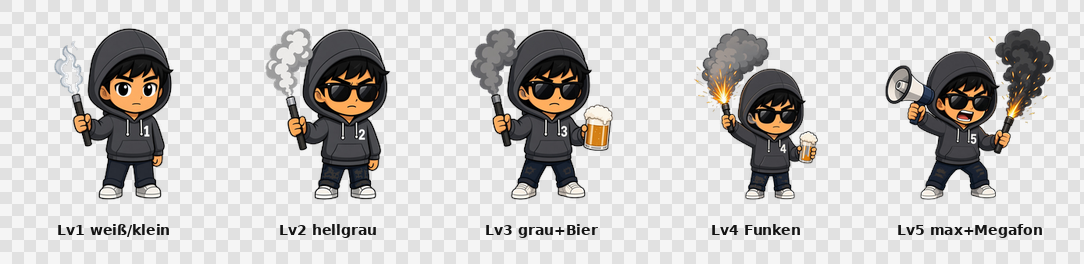
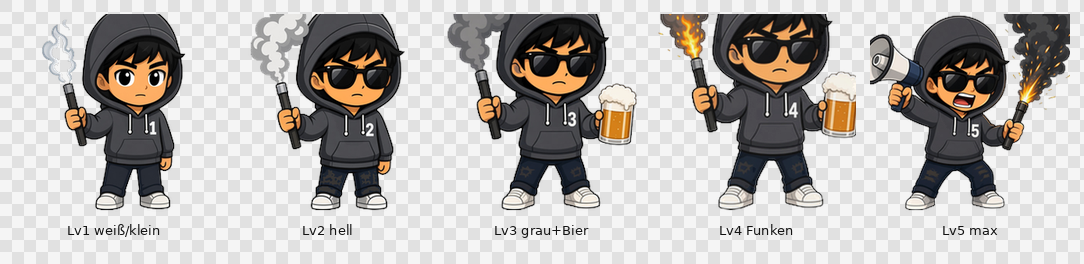
Lock Ultra canon grey/blue/red with equal figure scale
Fix Lv4 body scale to match other levels, colorize blue/red with
team-tinted pyro smoke ladder, and require these ultras for all
future game deployments.

diff --git a/unit-icons-agent/docs/gallery/unit-icons-cutouts.html b/unit-icons-agent/docs/gallery/unit-icons-cutouts.html
@@ -155,9 +155,9 @@
       </tr>
     </thead>
     <tbody>
-      <tr><th scope="row">Grau</th><td><div class="slot"><img src="../../assets/units/ultra-grey-1.png" alt="ultra-grey-1.png" width="128" height="128" loading="lazy" /><code>ultra-grey-1.png</code></div></td><td><div class="slot"><img src="../../assets/units/ultra-grey-2.png" alt="ultra-grey-2.png" width="128" height="128" loading="lazy" /><code>ultra-grey-2.png</code></div></td><td><div class="slot"><img src="../../assets/units/ultra-grey-3.png" alt="ultra-grey-3.png" width="128" height="128" loading="lazy" /><code>ultra-grey-3.png</code></div></td><td><div class="slot"><img src="../../assets/units/ultra-grey-4.png" alt="ultra-grey-4.png" width="128" height="128" loading="lazy" /><code>ultra-grey-4.png</code></div></td><td><div class="slot"><img src="../../assets/units/ultra-grey-5.png" alt="ultra-grey-5.png" width="128" height="128" loading="lazy" /><code>ultra-grey-5.png</code></div></td></tr>
-<tr><th scope="row">Blau</th><td><div class="slot"><img src="../../assets/units/ultra-blue-1.png" alt="ultra-blue-1.png" width="128" height="128" loading="lazy" /><code>ultra-blue-1.png</code></div></td><td><div class="slot"><img src="../../assets/units/ultra-blue-2.png" alt="ultra-blue-2.png" width="128" height="128" loading="lazy" /><code>ultra-blue-2.png</code></div></td><td><div class="slot"><img src="../../assets/units/ultra-blue-3.png" alt="ultra-blue-3.png" width="128" height="128" loading="lazy" /><code>ultra-blue-3.png</code></div></td><td><div class="slot"><img src="../../assets/units/ultra-blue-4.png" alt="ultra-blue-4.png" width="128" height="128" loading="lazy" /><code>ultra-blue-4.png</code></div></td><td><div class="slot"><img src="../../assets/units/ultra-blue-5.png" alt="ultra-blue-5.png" width="128" height="128" loading="lazy" /><code>ultra-blue-5.png</code></div></td></tr>
-<tr><th scope="row">Rot</th><td><div class="slot"><img src="../../assets/units/ultra-red-1.png" alt="ultra-red-1.png" width="128" height="128" loading="lazy" /><code>ultra-red-1.png</code></div></td><td><div class="slot"><img src="../../assets/units/ultra-red-2.png" alt="ultra-red-2.png" width="128" height="128" loading="lazy" /><code>ultra-red-2.png</code></div></td><td><div class="slot"><img src="../../assets/units/ultra-red-3.png" alt="ultra-red-3.png" width="128" height="128" loading="lazy" /><code>ultra-red-3.png</code></div></td><td><div class="slot"><img src="../../assets/units/ultra-red-4.png" alt="ultra-red-4.png" width="128" height="128" loading="lazy" /><code>ultra-red-4.png</code></div></td><td><div class="slot"><img src="../../assets/units/ultra-red-5.png" alt="ultra-red-5.png" width="128" height="128" loading="lazy" /><code>ultra-red-5.png</code></div></td></tr>
+      <tr><th scope="row">Grau</th><td><div class="slot"><img src="../../../game/public/icons/units/ultra-grey-1.png" alt="ultra-grey-1.png" width="128" height="128" loading="lazy" /><code>ultra-grey-1.png</code></div></td><td><div class="slot"><img src="../../../game/public/icons/units/ultra-grey-2.png" alt="ultra-grey-2.png" width="128" height="128" loading="lazy" /><code>ultra-grey-2.png</code></div></td><td><div class="slot"><img src="../../../game/public/icons/units/ultra-grey-3.png" alt="ultra-grey-3.png" width="128" height="128" loading="lazy" /><code>ultra-grey-3.png</code></div></td><td><div class="slot"><img src="../../../game/public/icons/units/ultra-grey-4.png" alt="ultra-grey-4.png" width="128" height="128" loading="lazy" /><code>ultra-grey-4.png</code></div></td><td><div class="slot"><img src="../../../game/public/icons/units/ultra-grey-5.png" alt="ultra-grey-5.png" width="128" height="128" loading="lazy" /><code>ultra-grey-5.png</code></div></td></tr>
+<tr><th scope="row">Blau</th><td><div class="slot"><img src="../../../game/public/icons/units/ultra-blue-1.png" alt="ultra-blue-1.png" width="128" height="128" loading="lazy" /><code>ultra-blue-1.png</code></div></td><td><div class="slot"><img src="../../../game/public/icons/units/ultra-blue-2.png" alt="ultra-blue-2.png" width="128" height="128" loading="lazy" /><code>ultra-blue-2.png</code></div></td><td><div class="slot"><img src="../../../game/public/icons/units/ultra-blue-3.png" alt="ultra-blue-3.png" width="128" height="128" loading="lazy" /><code>ultra-blue-3.png</code></div></td><td><div class="slot"><img src="../../../game/public/icons/units/ultra-blue-4.png" alt="ultra-blue-4.png" width="128" height="128" loading="lazy" /><code>ultra-blue-4.png</code></div></td><td><div class="slot"><img src="../../../game/public/icons/units/ultra-blue-5.png" alt="ultra-blue-5.png" width="128" height="128" loading="lazy" /><code>ultra-blue-5.png</code></div></td></tr>
+<tr><th scope="row">Rot</th><td><div class="slot"><img src="../../../game/public/icons/units/ultra-red-1.png" alt="ultra-red-1.png" width="128" height="128" loading="lazy" /><code>ultra-red-1.png</code></div></td><td><div class="slot"><img src="../../../game/public/icons/units/ultra-red-2.png" alt="ultra-red-2.png" width="128" height="128" loading="lazy" /><code>ultra-red-2.png</code></div></td><td><div class="slot"><img src="../../../game/public/icons/units/ultra-red-3.png" alt="ultra-red-3.png" width="128" height="128" loading="lazy" /><code>ultra-red-3.png</code></div></td><td><div class="slot"><img src="../../../game/public/icons/units/ultra-red-4.png" alt="ultra-red-4.png" width="128" height="128" loading="lazy" /><code>ultra-red-4.png</code></div></td><td><div class="slot"><img src="../../../game/public/icons/units/ultra-red-5.png" alt="ultra-red-5.png" width="128" height="128" loading="lazy" /><code>ultra-red-5.png</code></div></td></tr>
     </tbody>
   </table>
 </section>

diff --git a/unit-icons-agent/bot/tools/list_cutout_unit_icons.ts b/unit-icons-agent/bot/tools/list_cutout_unit_icons.ts
@@ -38,6 +38,7 @@ export default defineTool({
           "Fans: Kanon docs/icons/FAN_CANON.md — game/public/icons/units/fan-*.png",
           "Ordner: Kanon docs/icons/ORDNER_CANON.md — game/public/icons/units/ordner-*.png",
           "Hooligans: Kanon docs/icons/HOOLIGAN_CANON.md — game/public/icons/units/hooligan-*.png",
+          "Ultras: Kanon docs/icons/ULTRA_CANON.md — game/public/icons/units/ultra-*.png",
         ],
       },
       rootsScanned: roots,

diff --git a/docs/icons/ULTRA_CANON.md b/docs/icons/ULTRA_CANON.md
@@ -1,0 +1,47 @@
+# Ultra-Icons — verbindlicher Kanon
+
+**Status:** freigegeben für alle neuen Spielversionen / Deployments  
+**Stand:** 2026-10-08  
+**Quelle der Wahrheit:** `game/public/icons/units/ultra-{grey|blue|red}-{1..5}.png`
+
+Ältere Ultra-Varianten (andere Props-/Rauch-Leiter, Agent-Assets vor diesem Kanon) dürfen **nicht** mehr für neue Builds, Mockups oder Agent-Generierungen verwendet werden.
+
+Maschinenlesbar: [`ultra-canon.json`](./ultra-canon.json)  
+Übersicht: [`ultras-all-colors.png`](./ultras-all-colors.png)
+
+## Dateipfade
+
+| Farbe | Pfade |
+| --- | --- |
+| Grau (neutral) | `game/public/icons/units/ultra-grey-1.png` … `ultra-grey-5.png` |
+| Blau (Heim) | `game/public/icons/units/ultra-blue-1.png` … `ultra-blue-5.png` |
+| Rot (Gäste) | `game/public/icons/units/ultra-red-1.png` … `ultra-red-5.png` |
+
+Spiegel: `unit-icons-agent/assets/units/ultra-*.png`  
+Arbeitsnotizen: `unit-icons-agent/docs/ultra-progression/` (nur Doku).
+
+## Stil
+
+- Chibi / Bloons-Comic: großer Kopf, kurze Beine, dicke Outlines
+- **Ganzfigurig**, 256×256 PNG RGBA freigestellt, gleiche Figurgröße über alle Level
+- Hoodie mit **Kapuze oben**, Nummer = Level auf der **linken Brust**
+- **Pyro-Stab ab Level 1** immer
+
+## Upgrade-Stufen
+
+| Level | Look | Pyro / Rauch | Weitere Props |
+| --- | --- | --- | --- |
+| 1 | Gesicht offen | weißes Pyro, **sehr kleiner** Rauch | — |
+| 2 | + Sonnenbrille | hell → Teamfarbe beginnend, Rauch etwas mehr | — |
+| 3 | aggressiver | Teamfarbe-Rauch, mittel | + Bier |
+| 4 | lauter | großer Team-Rauch + **Funken** | + Bier |
+| 5 | max | **max** Team-Rauch + Funken | + **Megafon** |
+
+Rauchfarbe: Lv1 weiß/hell → steigend in die **Teamfarbe** (grau / blau / rot).
+
+## Regeln für Agents & Deployments
+
+1. Nur die 15 Dateien unter `game/public/icons/units/ultra-{color}-{level}.png` laden.
+2. Keine Regeneration der Ultras, solange dieser Kanon gilt — außer ausdrücklicher Revisions-Auftrag.
+3. Neue Spielstände / Branches übernehmen diese Pfade.
+4. Fans, Ordner, Hooligans haben eigene Kanons.

diff --git a/unit-icons-agent/docs/ultra-progression/README.md b/unit-icons-agent/docs/ultra-progression/README.md
@@ -1,18 +1,21 @@
-# Ultra-Progression (Arbeit)
+# Ultra-Progression
 
-**Stilbasis:** bestehende Ultra-Icons (Hoodie, Kapuze oben, Chibi).
+> **Kanon freigegeben:**  
+> [`docs/icons/ULTRA_CANON.md`](../../../docs/icons/ULTRA_CANON.md)
 
-## Vorschlag B (aktuell) — Grau Lv1–5
+**Für neue Spielversionen / Deployments** immer `game/public/icons/units/ultra-*.png` verwenden.
 
-| Level | Pyro / Rauch | Props | Look |
-| --- | --- | --- | --- |
-| 1 | **weiß**es Pyro, **sehr kleiner** Rauch | Pyro · Nr. **1** | Kapuze, Gesicht offen |
-| 2 | hellgrau, Rauch etwas mehr | Pyro · **2** | + Sonnenbrille |
-| 3 | **Teamgrau**-Rauch, mittel | Pyro + Bier · **3** | aggressiver |
-| 4 | dunkler grauer Rauch **groß** + **Funken** | Pyro + Bier · **4** | lauter |
-| 5 | **max** dunkler Rauch + Funken | Megafon + Pyro · **5** | max laut |
+Finale Ablage: [`final/`](./final/) · Übersicht: [`final/all-colors.png`](./final/all-colors.png).
 
-Nummer = Level auf der linken Brust. Ganzfigurig.  
-Nach Freigabe: Blau/Rot — Pyro/Rauch-Farbe wandert zur jeweiligen Teamfarbe.
+## Freigegebene Leiter
 
-A = erster Wurf · **B = Rauchgröße + Pyrofarbe-Leiter**
+| Level | Pyro / Rauch | Props |
+| --- | --- | --- |
+| 1 | weiß, sehr klein | Pyro · Nr. 1 |
+| 2 | hell → Teamfarbe | + Brille · Nr. 2 |
+| 3 | Teamfarbe, mittel | + Bier · Nr. 3 |
+| 4 | groß + Funken | + Bier · Nr. 4 |
+| 5 | max + Funken | Megafon + Pyro · Nr. 5 |
+
+Immer: Kapuze oben, gleiche Figurgröße, Nummer auf der Brust.  
+Vorschläge A/B unter `proposals/` sind Historie.

diff --git a/unit-icons-agent/bot/instructions.md b/unit-icons-agent/bot/instructions.md
@@ -19,6 +19,7 @@ For any new game version, mockup, or recommendation:
 | Fans | `docs/icons/FAN_CANON.md` | `game/public/icons/units/fan-{grey\|blue\|red}-{1..5}.png` |
 | Ordner | `docs/icons/ORDNER_CANON.md` | `game/public/icons/units/ordner-{grey\|blue\|red}-{1..5}.png` |
 | Hooligans | `docs/icons/HOOLIGAN_CANON.md` | `game/public/icons/units/hooligan-{grey\|blue\|red}-{1..5}.png` |
+| Ultras | `docs/icons/ULTRA_CANON.md` | `game/public/icons/units/ultra-{grey\|blue\|red}-{1..5}.png` |
 
 Mirrored under `assets/units/`. Do **not** revive legacy art or invent a different gear ladder unless the user explicitly asks to revise the canon.
 
@@ -29,7 +30,7 @@ Bundled snapshot: `assets/units/`. Also scan `game/public/icons/units/` when pre
 1. Call `list_cutout_unit_icons`.
 2. Call `build_unit_icon_gallery` so the user gets a browsable HTML grid.
 3. Call `record_icon_inventory` once with counts, missing filenames, and gallery path.
-4. Reply short in German: how many found of 60, gallery path, and any missing files. Mention Fans → `FAN_CANON`, Ordner → `ORDNER_CANON`, Hooligans → `HOOLIGAN_CANON`.
+4. Reply short in German: how many found of 60, gallery path, and any missing files. Mention Fans → `FAN_CANON`, Ordner → `ORDNER_CANON`, Hooligans → `HOOLIGAN_CANON`, Ultras → `ULTRA_CANON`.
 
 ## Memory
 

diff --git a/docs/icons/README.md b/docs/icons/README.md
@@ -8,7 +8,8 @@
 | **Ordner** | [`ORDNER_CANON.md`](./ORDNER_CANON.md) · [`ordner-canon.json`](./ordner-canon.json) | `game/public/icons/units/ordner-*.png` |
 | **Hooligans** | [`HOOLIGAN_CANON.md`](./HOOLIGAN_CANON.md) · [`hooligan-canon.json`](./hooligan-canon.json) | `game/public/icons/units/hooligan-*.png` |
 | **Top-HUD** | [`HUD_TOP_CANON.md`](./HUD_TOP_CANON.md) · [`hud-top-canon.json`](./hud-top-canon.json) | `game/public/icons/ui/scoreboard-top.png` |
+| **Ultras** | [`ULTRA_CANON.md`](./ULTRA_CANON.md) · [`ultra-canon.json`](./ultra-canon.json) | `game/public/icons/units/ultra-*.png` |
 
-Übersichten: [`fans-all-colors.png`](./fans-all-colors.png) · [`ordners-all-colors.png`](./ordners-all-colors.png) · [`hooligans-all-colors.png`](./hooligans-all-colors.png)
+Übersichten: [`fans-all-colors.png`](./fans-all-colors.png) · [`ordners-all-colors.png`](./ordners-all-colors.png) · [`hooligans-all-colors.png`](./hooligans-all-colors.png) · [`ultras-all-colors.png`](./ultras-all-colors.png)
 
-Für **neue Spielversionen** nur diese freigegebenen Dateien verwenden. Ultras und Stände haben eigene Manifeste (Ultras WIP: `unit-icons-agent/docs/ultra-progression/`).
+Für **neue Spielversionen** nur diese freigegebenen Dateien verwenden. Stände haben eigene Manifeste.

diff --git a/unit-icons-agent/README.md b/unit-icons-agent/README.md
@@ -11,6 +11,7 @@ Zieht die abgelegten Unit-Cutouts und zeigt alle Varianten in **Grau / Blau / Ro
 | Fans | [`FAN_CANON.md`](../docs/icons/FAN_CANON.md) | `../game/public/icons/units/fan-*.png` |
 | Ordner | [`ORDNER_CANON.md`](../docs/icons/ORDNER_CANON.md) | `../game/public/icons/units/ordner-*.png` |
 | Hooligans | [`HOOLIGAN_CANON.md`](../docs/icons/HOOLIGAN_CANON.md) | `../game/public/icons/units/hooligan-*.png` |
+| Ultras | [`ULTRA_CANON.md`](../docs/icons/ULTRA_CANON.md) | `../game/public/icons/units/ultra-*.png` |
 
 Spiegel für den Agent: `assets/units/`.
 
@@ -18,7 +19,7 @@ Spiegel für den Agent: `assets/units/`.
 
 | Quelle | Rolle |
 | --- | --- |
-| `../game/public/icons/units/` | **Runtime / Kanon** (Fans + Ordner + Hooligans) |
+| `../game/public/icons/units/` | **Runtime / Kanon** (Fans + Ordner + Hooligans + Ultras) |
 | `assets/units/` | Bundled Spiegel für den Agent |
 | `../docs/icons/*_CANON.md` | Verbindliche Regeln |
 

diff --git a/unit-icons-agent/bot/skills/show-cutout-units.md b/unit-icons-agent/bot/skills/show-cutout-units.md
@@ -22,8 +22,9 @@ Farben: `grey` (Grau), `blue` (Blau), `red` (Rot). Erwartung: **4 × 3 × 5 = 60
 | Fans | `docs/icons/FAN_CANON.md` | Trikot+Bier → Fähnchen → Cap+Schal → große Fahne; Nummer=Level |
 | Ordner | `docs/icons/ORDNER_CANON.md` | Funk → Stock → Stock+Pads → Schild+Pistole → Schild+MG; Cap/Helm-Nummer=Level; Warnweste immer |
 | Hooligans | `docs/icons/HOOLIGAN_CANON.md` | Boxen → Schlagring → Baseball → Stemmeisen → Kette+Schloss; Vermummung eskaliert |
+| Ultras | `docs/icons/ULTRA_CANON.md` | Pyro ab Lv1; Rauch weiß→Teamfarbe; Funken/Megafon; Nummer auf Brust |
 
-Runtime: `game/public/icons/units/{fan\|ordner\|hooligan}-{grey\|blue\|red}-{1..5}.png`  
+Runtime: `game/public/icons/units/{fan\|ordner\|hooligan\|ultra}-{grey\|blue\|red}-{1..5}.png`  
 Keine Legacy-Varianten regenerieren oder empfehlen.
 
 ## Ablauf

diff --git a/README.md b/README.md
@@ -12,5 +12,6 @@ Für **neue Spielversionen** gelten ausschließlich die freigegebenen Ganzkörpe
 | Ordner | [`docs/icons/ORDNER_CANON.md`](docs/icons/ORDNER_CANON.md) | `game/public/icons/units/ordner-{grey\|blue\|red}-{1..5}.png` |
 | Hooligans | [`docs/icons/HOOLIGAN_CANON.md`](docs/icons/HOOLIGAN_CANON.md) | `game/public/icons/units/hooligan-{grey\|blue\|red}-{1..5}.png` |
 | Top-HUD | [`docs/icons/HUD_TOP_CANON.md`](docs/icons/HUD_TOP_CANON.md) | `game/public/icons/ui/scoreboard-top.png` |
+| Ultras | [`docs/icons/ULTRA_CANON.md`](docs/icons/ULTRA_CANON.md) | `game/public/icons/units/ultra-{grey\|blue\|red}-{1..5}.png` |
 
 Ältere Grafiken derselben Typen nicht mehr verwenden.

diff --git a/game/public/icons/units/README.md b/game/public/icons/units/README.md
@@ -7,3 +7,4 @@
 | Fans | `fan-{grey\|blue\|red}-{1..5}.png` | [`docs/icons/FAN_CANON.md`](../../../../docs/icons/FAN_CANON.md) |
 | Ordner | `ordner-{grey\|blue\|red}-{1..5}.png` | [`docs/icons/ORDNER_CANON.md`](../../../../docs/icons/ORDNER_CANON.md) |
 | Hooligans | `hooligan-{grey\|blue\|red}-{1..5}.png` | [`docs/icons/HOOLIGAN_CANON.md`](../../../../docs/icons/HOOLIGAN_CANON.md) |
+| Ultras | `ultra-{grey\|blue\|red}-{1..5}.png` | [`docs/icons/ULTRA_CANON.md`](../../../../docs/icons/ULTRA_CANON.md) |
